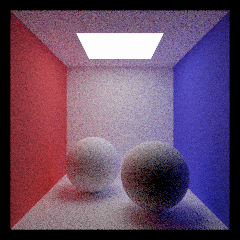
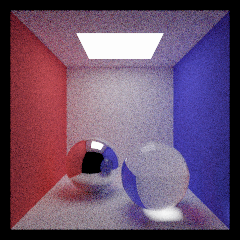
finished a3t5 debugging

diff --git a/src/scene/material.cpp b/src/scene/material.cpp
@@ -11,44 +11,49 @@ Vec3 reflect(Vec3 dir) {
     // Return direction to incoming light that would be
 	// reflected out in direction dir from surface
 	// with normal (0,1,0)
-	Vec3 ret = dir;
-	ret.x = -ret.x;
-	ret.z = -ret.z;
+	Vec3 ret = -dir;
+	ret.y = -ret.y;
 	return ret;
 
     // return Vec3{};
 }
 
 Vec3 refract(Vec3 out_dir, float index_of_refraction, bool& was_internal) {
-	//A3T5 Materials - refract helper
+    Vec3 normal = Vec3{0,1,0};
+    float cosThetaI = dot(out_dir, normal);
+    bool entering = cosThetaI > 0;
+    float etaI = entering ? 1.0f : index_of_refraction;
+    float etaT = entering ? index_of_refraction : 1.0f;
 
-	// Use Snell's Law to refract out_dir through the surface.
-	// Return the refracted direction. Set was_internal to true if
-	// refraction does not occur due to total internal reflection,
-	// and false otherwise.
+    // Compute sin^2(theta_t) using Snell's law
+    float sin2ThetaI = std::max(0.0f, 1.0f - cosThetaI * cosThetaI);
+    float sin2ThetaT = etaI * etaI * sin2ThetaI / (etaT * etaT);
 
-	// The surface normal is (0,1,0)
- 
+    if (sin2ThetaT >= 1) {
+        was_internal = true; 
+        return Vec3{};
+    }
 
-	float cosAngleOutDir = dot(out_dir, Vec3{0,1,0});
-	bool entering = cosAngleOutDir > 0;
-	float ior_ratio = entering ? 1.0f / index_of_refraction : index_of_refraction; 
-	float sinAngleOutDir = sqrt(1 - cosAngleOutDir * cosAngleOutDir);
-	float sinAngleInDir = sinAngleOutDir * ior_ratio;
-	was_internal = false;
-	if (sinAngleInDir > 1) { // over 90 degrees, total reflection
-		was_internal = true; 
-		return Vec3{};
-	} 
-	float cosAngleInDir = sqrt(1 - sinAngleInDir * sinAngleInDir);
-	if (entering) { 
-		cosAngleInDir = -cosAngleInDir;
-	}
+    float cosThetaT = std::sqrt(1 - sin2ThetaT);
 
-	Vec3 ret = -out_dir;
-	ret.y = cosAngleInDir;
-	return ret;
+    // Vec3 refractedDir;
+    // if (entering) { 
+    //     refractedDir = etaI / etaT * (-out_dir + normal * cosThetaI) - normal * cosThetaT;
+    // } else {
+    //     // normal = -normal;
+    //     refractedDir = etaI / etaT * (out_dir - normal * cosThetaI) + normal * cosThetaT;
+    // }
+
+	Vec3 in_dir(-out_dir.x, 0.0f, -out_dir.z);
+    in_dir.normalize();
+    in_dir *= std::sqrt(sin2ThetaT);
+    in_dir.y = cosThetaT;
+    if(0 < out_dir.y) in_dir.y = -in_dir.y;
+
+    return in_dir;
 }
+
+
 
 float schlick(Vec3 in_dir, float index_of_refraction) {
 	//A3T5 Materials - Schlick's approximation helper
@@ -57,10 +62,10 @@ float schlick(Vec3 in_dir, float index_of_refraction) {
 
 	// The surface normal is (0,1,0)
 
-	float cosTheta = dot(in_dir, Vec3{0,1,0});
+	float cosTheta = abs(dot(in_dir, Vec3{0,1,0}));
 	float r0 = (1 - index_of_refraction) / (1 + index_of_refraction);
 	r0 = r0 * r0;
-	return r0 + (1.0f - r0) * float(pow(1 - cosTheta, 5));
+	return float(double(r0) + double(1.0f - r0) * (pow(1 - cosTheta, 5)));
 
 	// return 0.0f;
 }
@@ -164,17 +169,17 @@ Scatter Refract::scatter(RNG &rng, Vec3 out, Vec2 uv) const {
  
     Scatter ret;
 	bool was_internal = false; 
-    ret.direction = refract(out, ior, was_internal); 
+    ret.direction = refract(out, ior, was_internal).unit(); 
 	if(was_internal) { 
-		ret.direction = reflect(out);
-		ret.attenuation = transmittance.lock()->evaluate(uv); 
+		ret.direction = reflect(out).unit();
+		ret.attenuation = Spectrum{1.0f};
 	}else{
 		float cosAngleOutDir = dot(out, Vec3{0,1,0});
 		bool entering = cosAngleOutDir > 0;
 		float ior_ratio = entering ? 1.0f / ior : ior; 
 		float sqr_ior_ratio = ior_ratio * ior_ratio;
-		Spectrum local_transmittance = transmittance.lock()->evaluate(uv); 
-		ret.attenuation = local_transmittance * sqr_ior_ratio;
+		Spectrum local_transmittance = transmittance.lock()->evaluate(uv) * sqr_ior_ratio; 
+		ret.attenuation = local_transmittance;
 	}
 	
 	// ret.direction = reflect(out);
@@ -227,26 +232,35 @@ Scatter Glass::scatter(RNG &rng, Vec3 out, Vec2 uv) const {
     // When debugging Glass, it may be useful to compare to a pure-refraction BSDF
 	// For attenuation, be sure to take a look at the Specular Transimission section of the PBRT textbook for a derivation
 
-	Vec3 reflect_indir = reflect(out);
-	bool was_internal = false;
-	Vec3 refract_indir = refract(out, ior, was_internal);
-	float fresnel = 0.0f;
-	if(was_internal) {
-		fresnel = 1.0f;
-	} else {
-		fresnel = schlick(out, ior);
-	}
+	// bool was_internal = false;
+	// Vec3 refract_indir = refract(out, ior, was_internal);
+	// float fresnel = 0.0f;
+	// if(was_internal) {
+	// 	fresnel = 1.0f;
+	// } else {
+	// 	// fresnel = schlick(out, ior);
+	// 	fresnel = 0.0f;
+	// }
 
-	Scatter ret;
-
-	bool reflect = rng.coin_flip(fresnel);
-	if(reflect) {
-		ret.direction = reflect_indir;
+   	Scatter ret;
+	bool was_internal = false; 
+    ret.direction = refract(out, ior, was_internal).unit(); 
+	float fresnel = schlick(out, ior);
+	// std::cout << "fresnel: " << fresnel << std::endl;
+	if(was_internal || rng.coin_flip(fresnel)) { 
+		ret.direction = reflect(out).unit();
 		ret.attenuation = reflectance.lock()->evaluate(uv);
-	} else {
-		ret.direction = refract_indir;
-		ret.attenuation = transmittance.lock()->evaluate(uv);
+	}else{
+		float cosAngleOutDir = dot(out, Vec3{0,1,0});
+		bool entering = cosAngleOutDir > 0;
+		float ior_ratio = entering ? 1.0f / ior : ior; 
+		float sqr_ior_ratio = ior_ratio * ior_ratio;
+		Spectrum local_transmittance = transmittance.lock()->evaluate(uv) * sqr_ior_ratio; 
+		ret.attenuation = local_transmittance;
 	}
+	
+	// ret.direction = reflect(out);
+	// ret.attenuation = transmittance.lock()->evaluate(uv);
 	ret.specular = true;
     return ret;
 }
